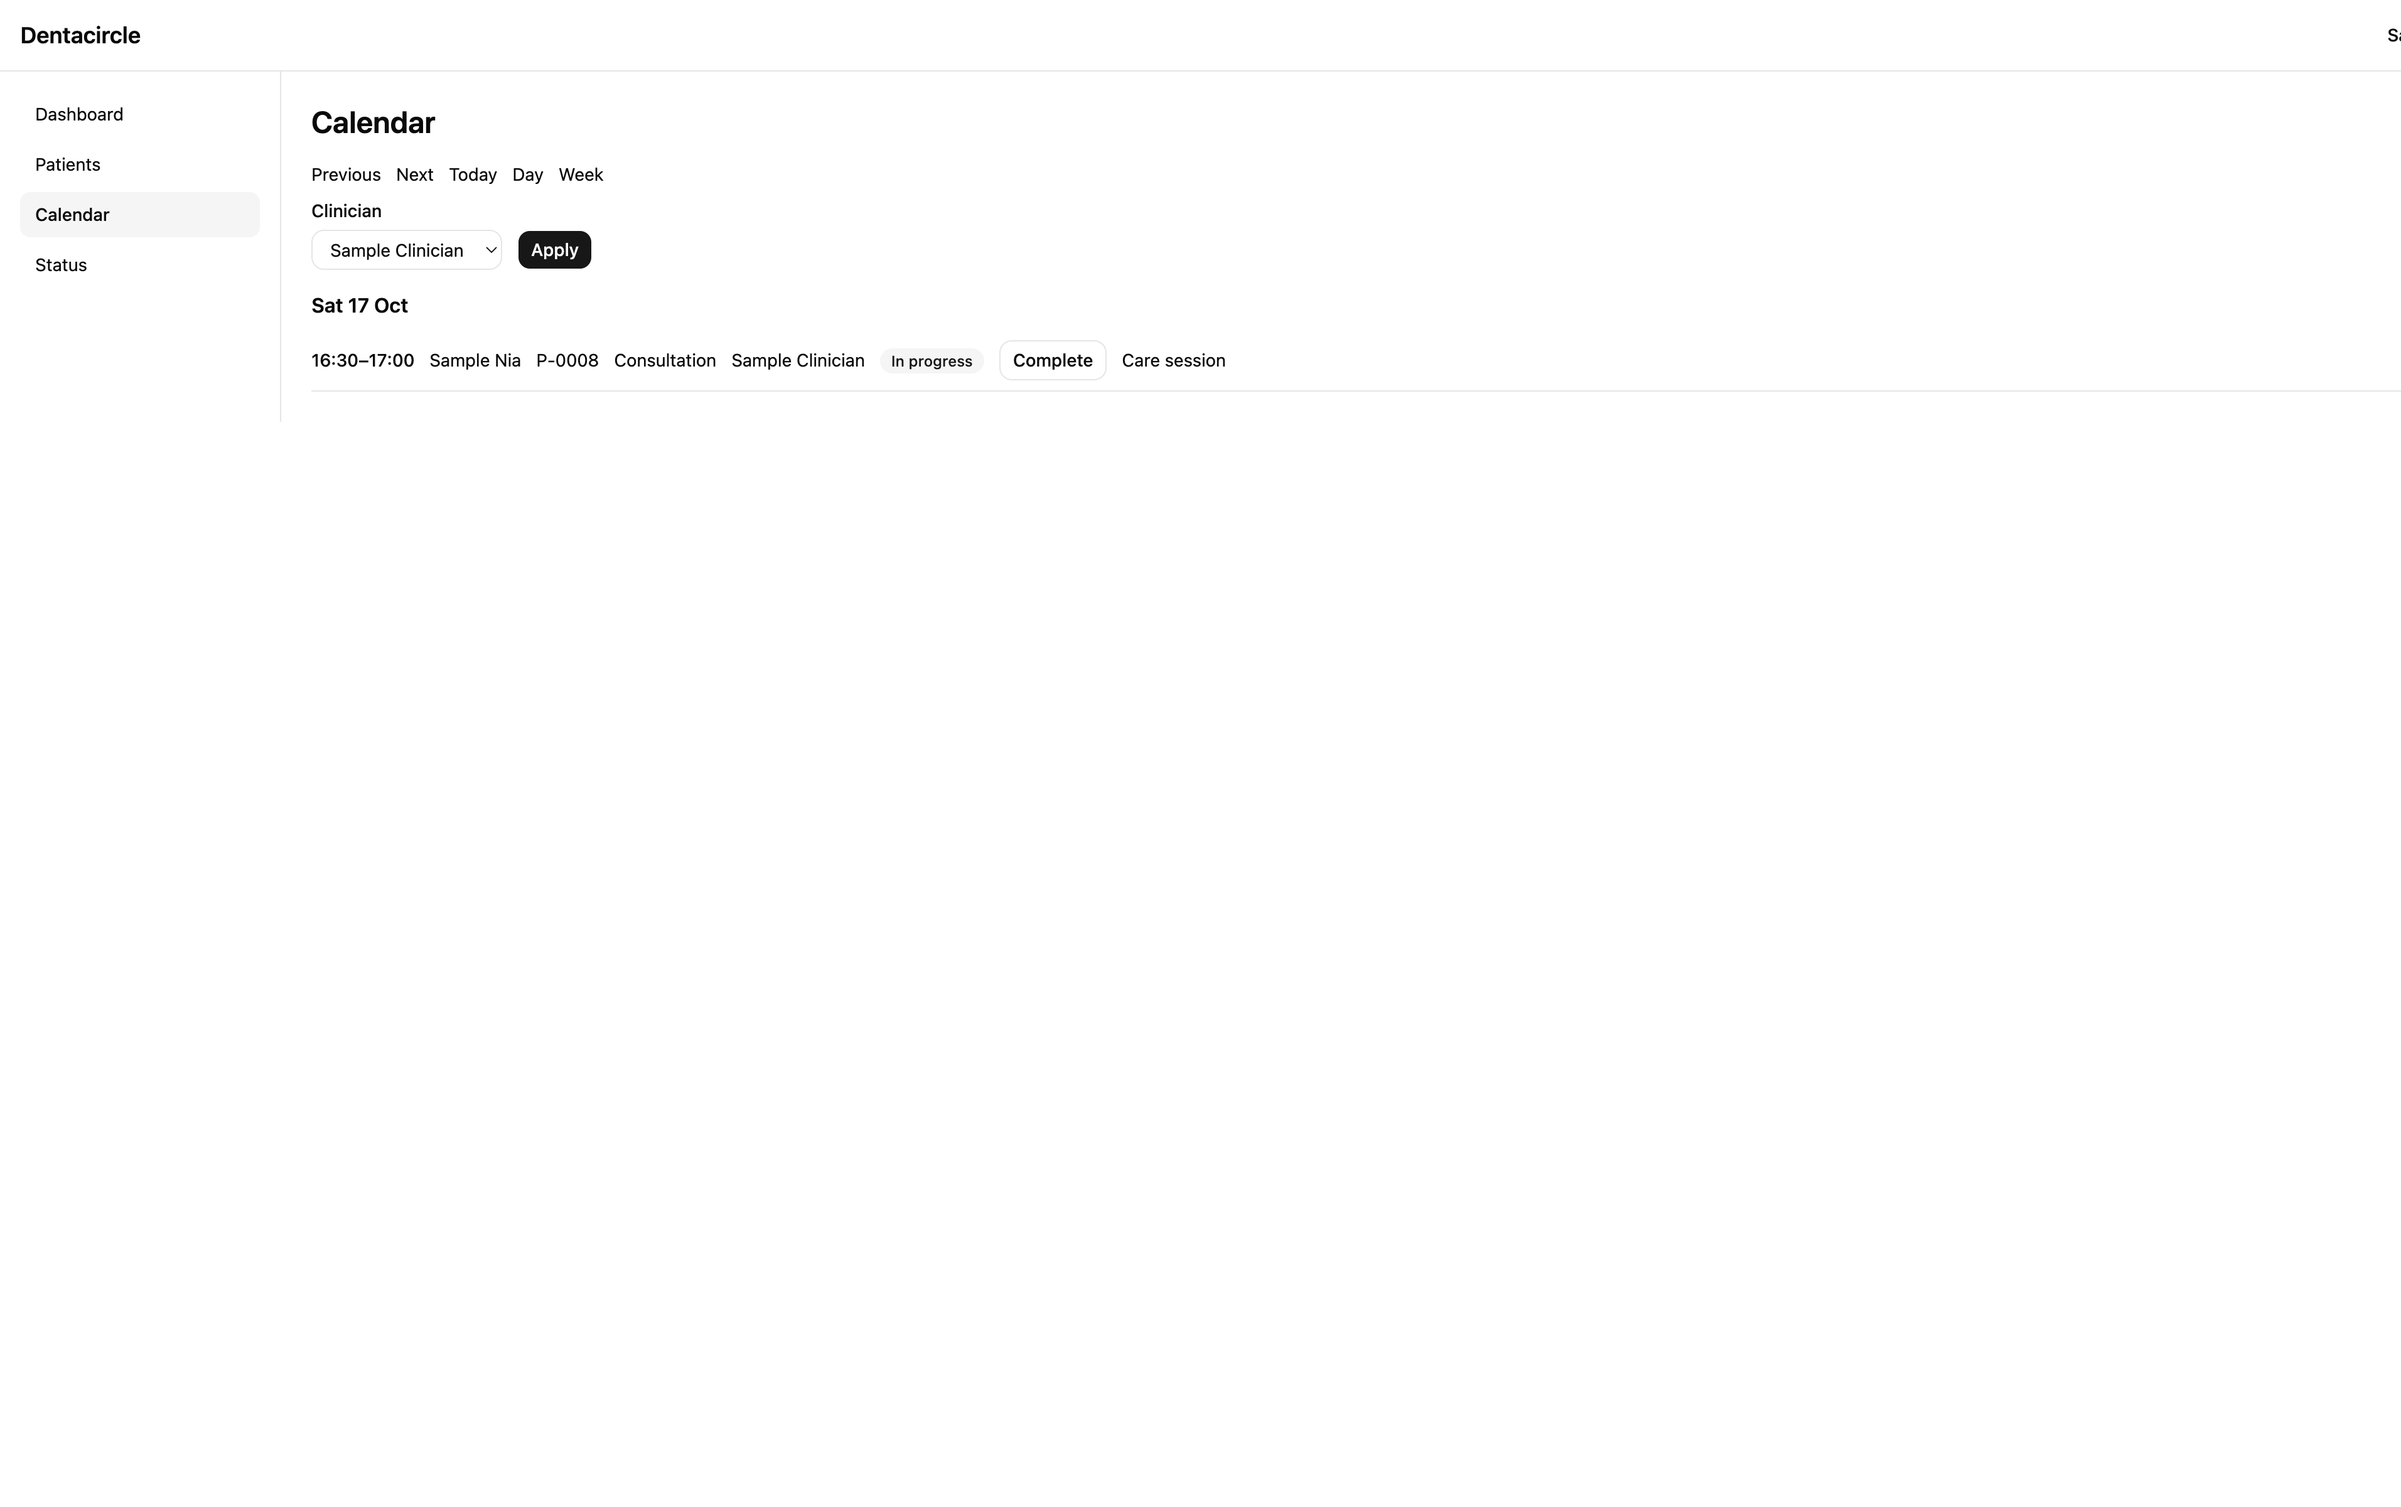
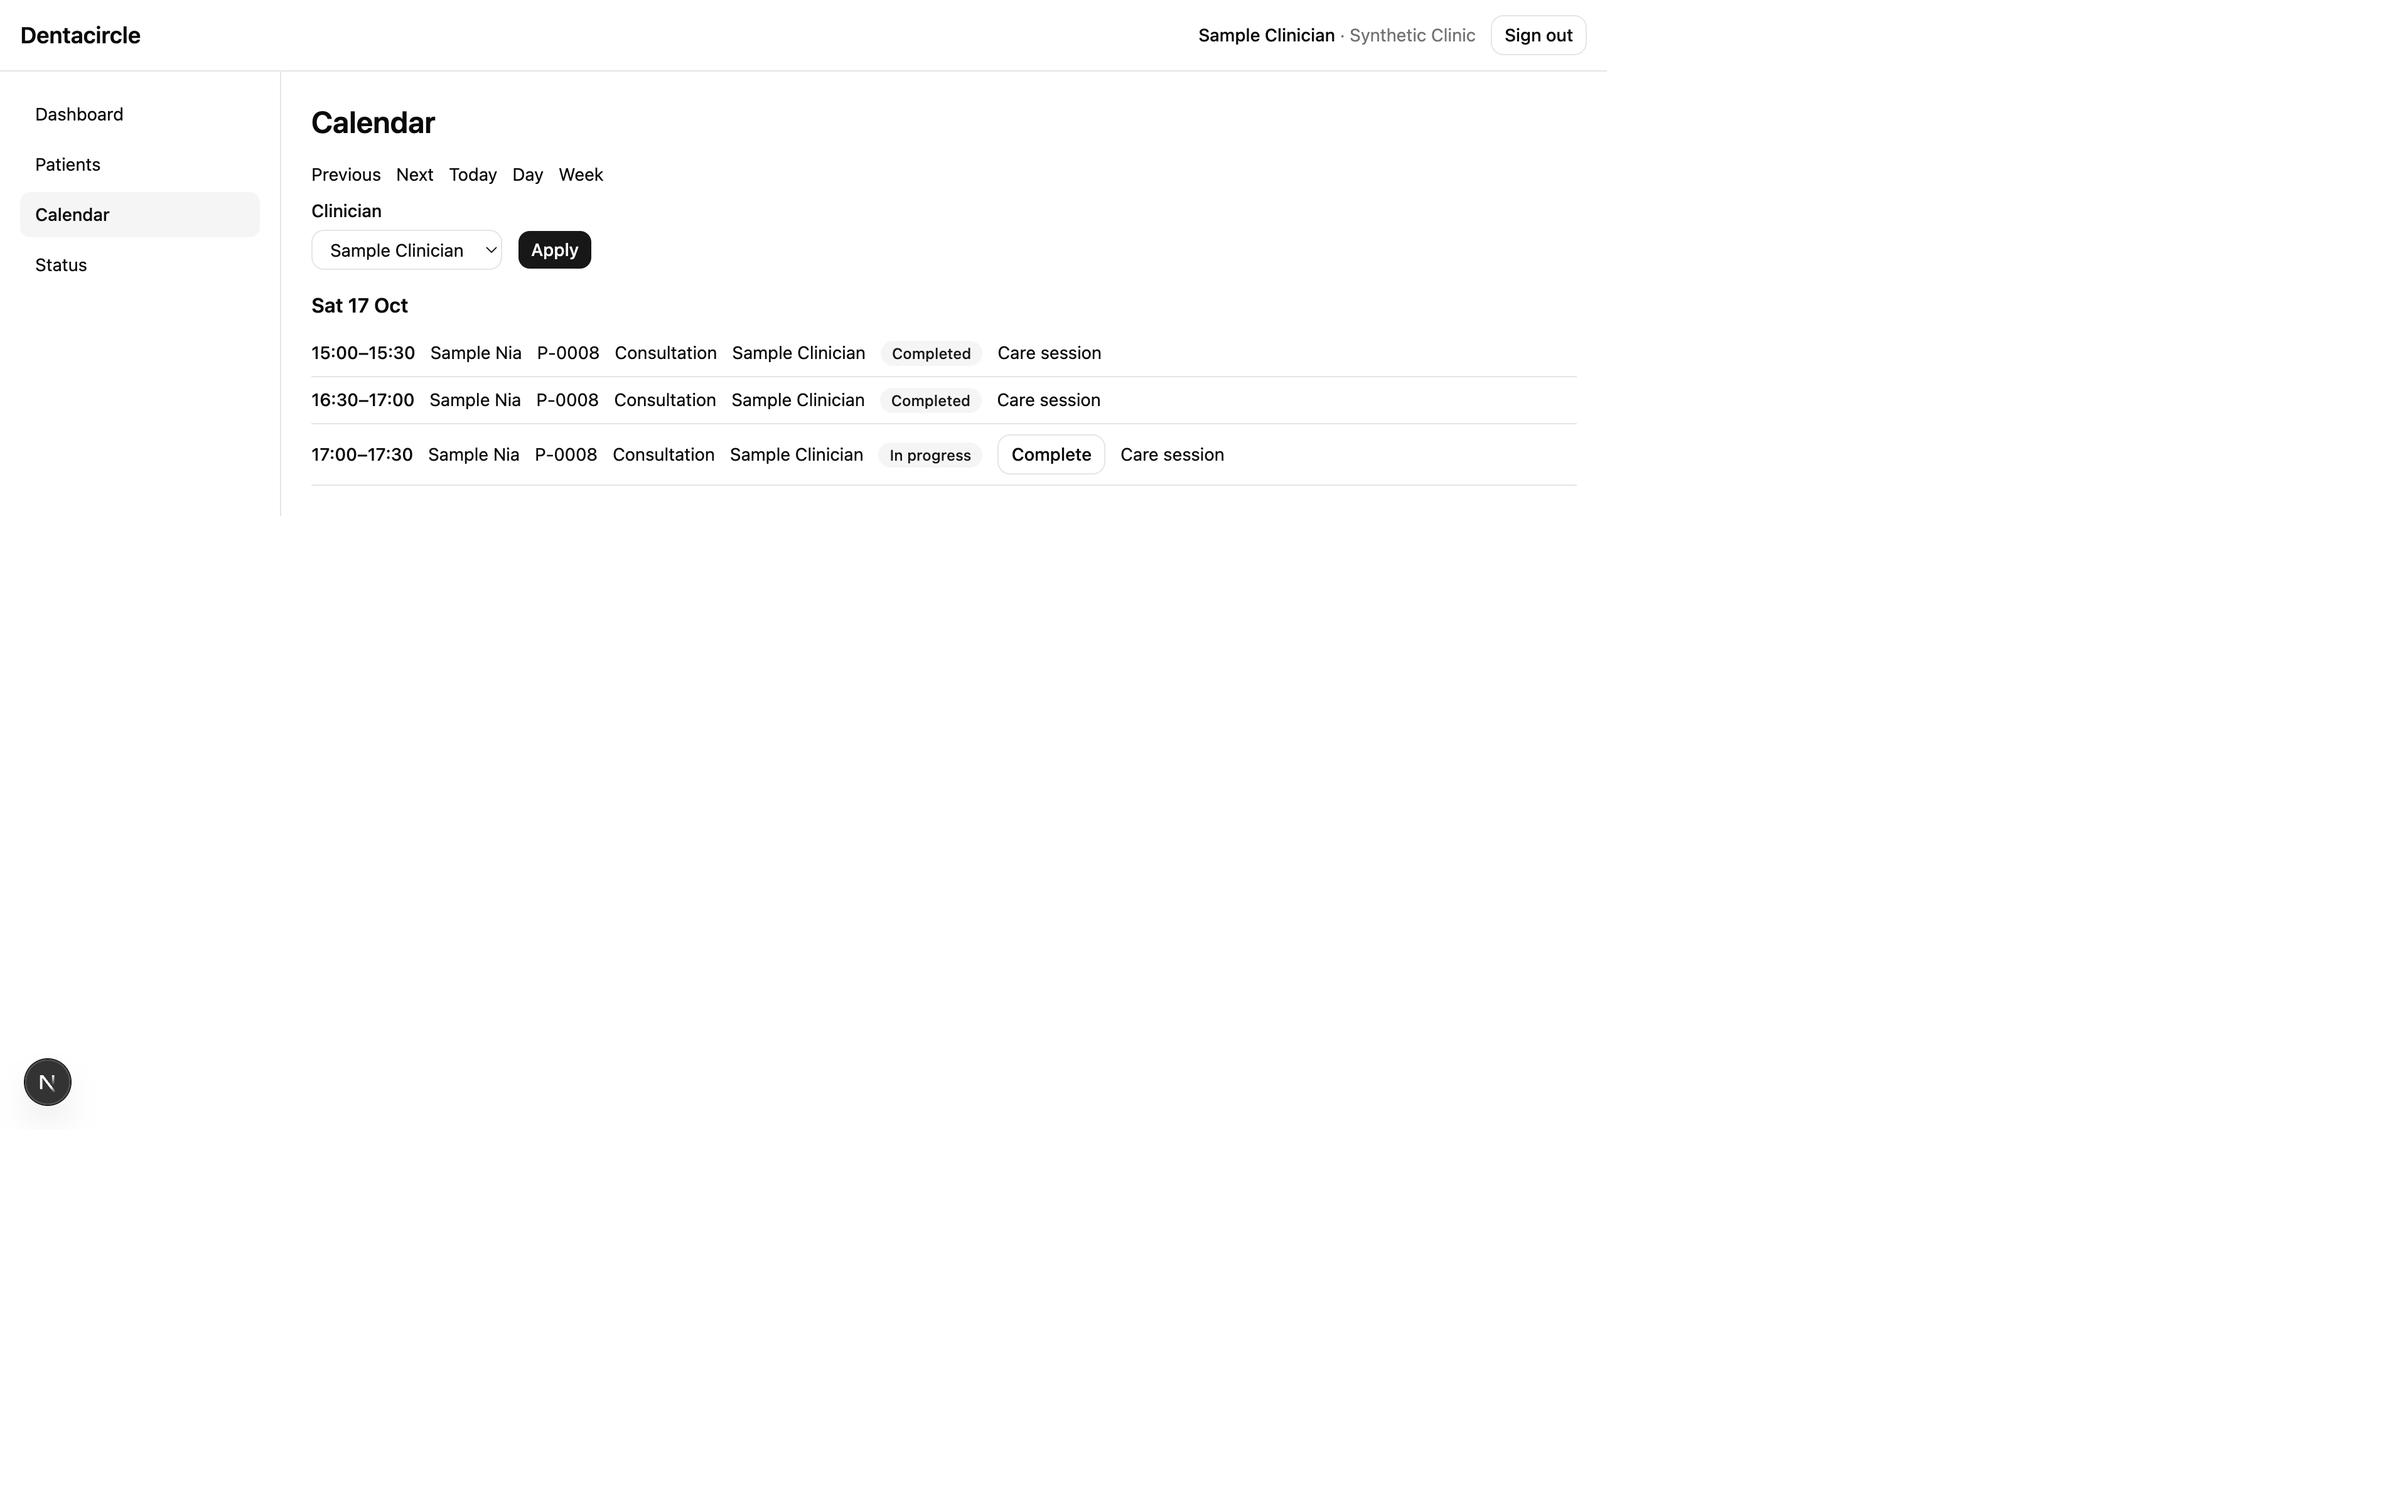
Recapture the follow-up proof from the calendar Complete button.

diff --git a/.shipit/proof/S2.2/index.md b/.shipit/proof/S2.2/index.md
@@ -1,29 +1,29 @@
 # S2.2 proof
 
-Code these shots were taken against: `8543a0d` (Show the open follow-up on the care page).
+Code these shots were taken against: `8543a0d` (Show the open follow-up on the care page). Recapture of the complete path is on the sealed branch.
 
 Clinic: Synthetic Clinic. Staff: Sample Clinician (`s22.clinician@x.test`), Sample Desk (`s22.desk@x.test`), Sample Stores (`s22.stores@x.test`). Patients: Sample Nia, display P-0008, Scaling still planned; Sample Opal, Scaling completed. Visits on Sat 17 Oct, Asia/Kolkata. No clinical notes.
 
-The calendar Complete control did not submit from the browser, so Nia's 16:30 visit (`6608e7de-4fd2-4bf5-a7b3-7f24f423a0a2`) was completed with `POST /api/appointments/6608e7de-4fd2-4bf5-a7b3-7f24f423a0a2/status` from the signed-in page. The response stayed the calendar item and the status became `completed`. The second visit, 15:00 (`69198cee-7c33-47db-ae33-dce51218a149`), was completed through the service. One follow-up remained, due 2026-10-24, pointing at the 15:00 visit.
+Signed in as Sample Clinician. The 17:00–17:30 visit was already in progress. On the calendar, Complete opened "Mark as completed?". Yes completed the visit (the calendar then said "Marked completed."). Care still shows one line, "Follow-up due 24 Oct 2026", Scheduled. That visit is `f63e3422-7912-4096-a85f-ede38072e3d4`. The open follow-up stayed one row, due date unchanged, and its visit link is that 17:00 visit.
 
-1. `01-calendar-before-complete.png` — Day view for Sat 17 Oct, filtered to Sample Clinician. Sample Nia, P-0008, Consultation, 16:30–17:00, In progress, with Complete and Care session.
-2. `02-care-follow-up.png` — Nia's care page after that visit completed. "Follow-up due 24 Oct 2026" with Scheduled, above Scaling plan (Open) and Scaling (Planned).
+1. `01-calendar-before-complete.png` — Day view for Sat 17 Oct, filtered to Sample Clinician. Sample Nia, P-0008, 17:00–17:30, In progress, with Complete.
+2. `02-care-follow-up.png` — Nia's care page after Yes. "Follow-up due 24 Oct 2026" with Scheduled, above Scaling plan (Open) and Scaling (Planned).
 3. `03-care-no-follow-up.png` — Opal's care page. Scaling is Completed and the plan is Finished. No follow-up line.
-4. `04-second-visit-same-due.png` — After the 15:00 visit also completed. Still one line, still "Follow-up due 24 Oct 2026", still Scheduled.
+4. `04-second-visit-same-due.png` — Same care page after the later 17:00 visit was completed with Complete and Yes. Still one line, still "Follow-up due 24 Oct 2026", still Scheduled.
 5. `05-receptionist.png` — Signed in as Sample Desk, same care page. The line and badge are shown. There is no Start, Complete, Cancel, Rename, or new-plan control.
 6. `06-inventory-admin.png` — Signed in as Sample Stores. The page says "You do not have access."
 7. `07-follow-up-load-failure.png` — The follow-up read was forced to fail, then restored. Plans still show, with "Follow-up could not be loaded."
 
 ## Sample read
 
-`GET /patients/d6e82520-3995-4142-b05f-74724ba88c19/follow-up` as Sample Desk.
+`GET /patients/d6e82520-3995-4142-b05f-74724ba88c19/follow-up` after the 17:00 visit was completed in the browser.
 
 ```json
 {
   "follow_up": {
     "id": "9acbd9d0-56ef-4757-b18f-6bcf00a831c5",
     "patient_id": "d6e82520-3995-4142-b05f-74724ba88c19",
-    "appointment_id": "69198cee-7c33-47db-ae33-dce51218a149",
+    "appointment_id": "f63e3422-7912-4096-a85f-ede38072e3d4",
     "status": "scheduled",
     "due_on": "2026-10-24",
     "created_at": "2026-10-17T07:57:34.237206Z"
@@ -31,4 +31,4 @@ The calendar Complete control did not submit from the browser, so Nia's 16:30 vi
 }
 ```
 
-`due_on` is the date `2026-10-24` with no time. That is the clinic-local completion date (17 Oct) plus 7 days.
+`due_on` is the date `2026-10-24` with no time. The later completion did not change it.
